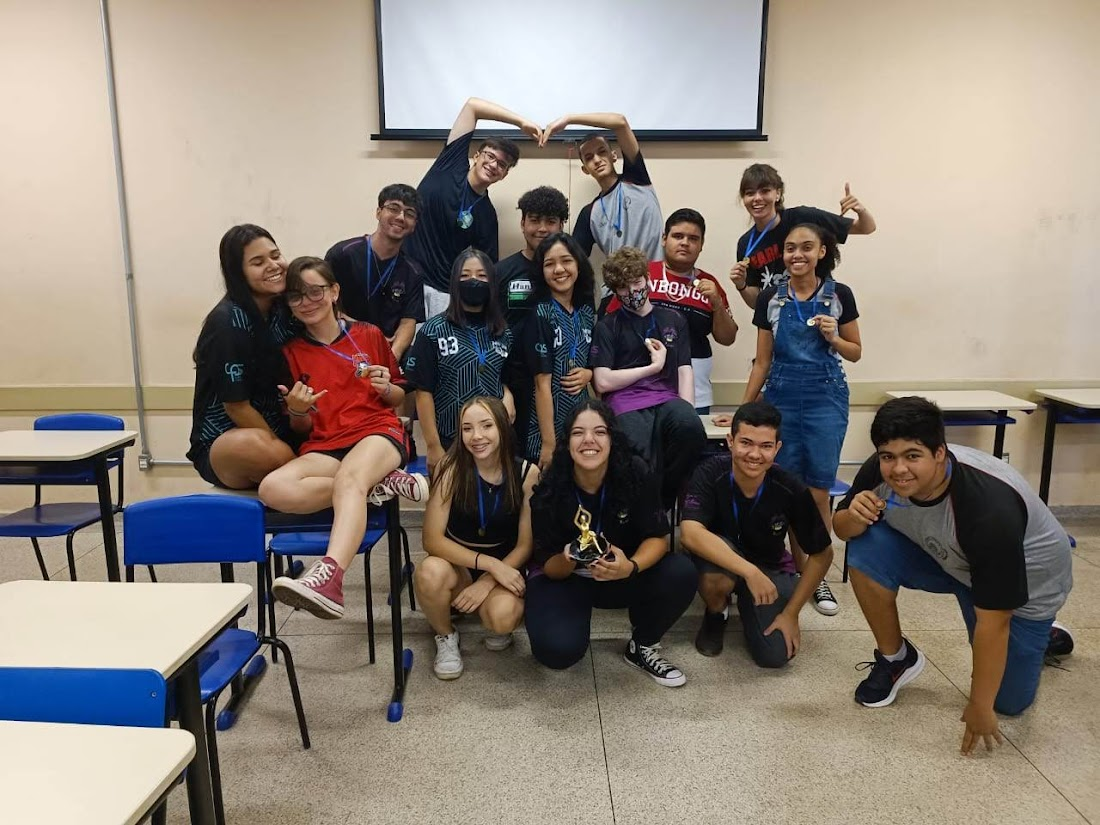
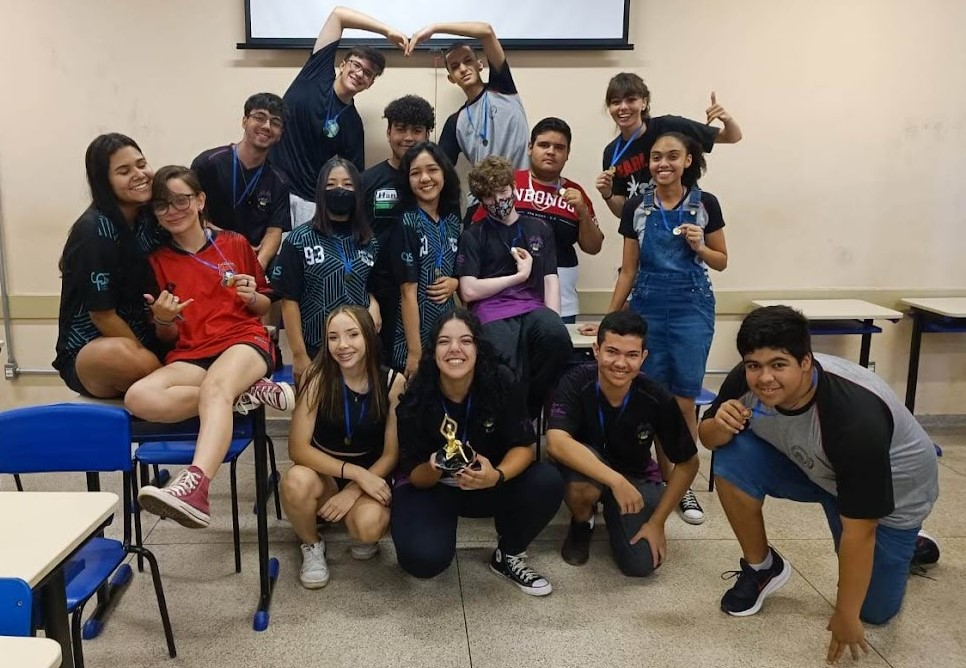
a

diff --git a/index.html b/index.html
@@ -15,7 +15,7 @@
   <body>
     <div data-slide="slide" class="slide">
       <div class="slide-items">
-        <img src="./images/01.jpg" alt="Img 1">
+        <img src="./images/01.png" alt="Img 1">
         <img src="./images/02.jpg" alt="Img 2">
         <img src="./images/03.jpg" alt="Img 3">
         <img src="./images/04.jpg" alt="Img 4">

diff --git a/serviceWorker.js b/serviceWorker.js
@@ -4,7 +4,7 @@ const assets = [
   "/index.html",
   "/css/style.css",
   "/js/app.js",
-  "/images/01.jpg",
+  "/images/01.png",
   "/images/02.jpg",
   "/images/03.jpg",
   "/images/04.jpg",
